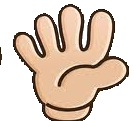
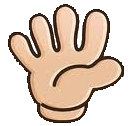
implementação de jogadas

Changed region(s): [[0.0615, 0.0248, 0.9846, 1.0], [0.0, 0.3967, 0.0308, 0.5455]]

diff --git a/lib/main.dart b/lib/main.dart
@@ -31,26 +31,30 @@ class MyHomePage extends StatefulWidget {
 
 class _MyHomePageState extends State<MyHomePage> {
   var _imgMaquina = 'assets/images/papel.png';
-  var imgUsuario = 'assets/images/papel.png';
-
+  var _imgUsuario = 'assets/images/papel.png';
   obtemJogadaDaMaquina() {
     return Random().nextInt(2);
   }
 
-  obtemImgDaMaquina(int codigo) {
+  obtemJogada(String figura) {
     var jogMaquina = obtemJogadaDaMaquina();
     var imgMaquina;
+
     if (jogMaquina == 0) {
       imgMaquina = 'assets/images/pedra.png';
+      _imgUsuario = 'assets/images/' + figura + '.png';
     }
 
     if (jogMaquina == 1) {
       imgMaquina = 'assets/images/papel.png';
+      _imgUsuario = 'assets/images/' + figura + '.png';
     }
 
     if (jogMaquina == 2) {
       imgMaquina = 'assets/images/tesoura.png';
+      _imgUsuario = 'assets/images/' + figura + '.png';
     }
+    
     
     setState(() {
       this._imgMaquina = imgMaquina;
@@ -95,7 +99,7 @@ class _MyHomePageState extends State<MyHomePage> {
                             ),
                           ),
                           onPressed: () => {
-                            obtemImgDaMaquina(0),
+                            obtemJogada('pedra'),
                           }
                         ),
                         SizedBox(width: 60),
@@ -108,7 +112,9 @@ class _MyHomePageState extends State<MyHomePage> {
                               fontSize: 16,
                             ),
                           ),
-                          onPressed: () => {}
+                          onPressed: () => {
+                            obtemJogada('papel'),
+                          }
                         ),
                         SizedBox(width: 60),
                          RaisedButton(
@@ -120,7 +126,9 @@ class _MyHomePageState extends State<MyHomePage> {
                               fontSize: 16,
                             ),
                           ),
-                          onPressed: () => {}
+                          onPressed: () => {
+                            obtemJogada('tesoura'),
+                          }
                         ),
                       ],
                     ),
@@ -143,7 +151,7 @@ class _MyHomePageState extends State<MyHomePage> {
             Flexible(
                flex: 1, // 2/3
                child: Center(
-               child: Image.asset('assets/images/papel.png', width: 80),
+               child: Image.asset(this._imgUsuario, width: 80),
             ),
           ),
           ],
